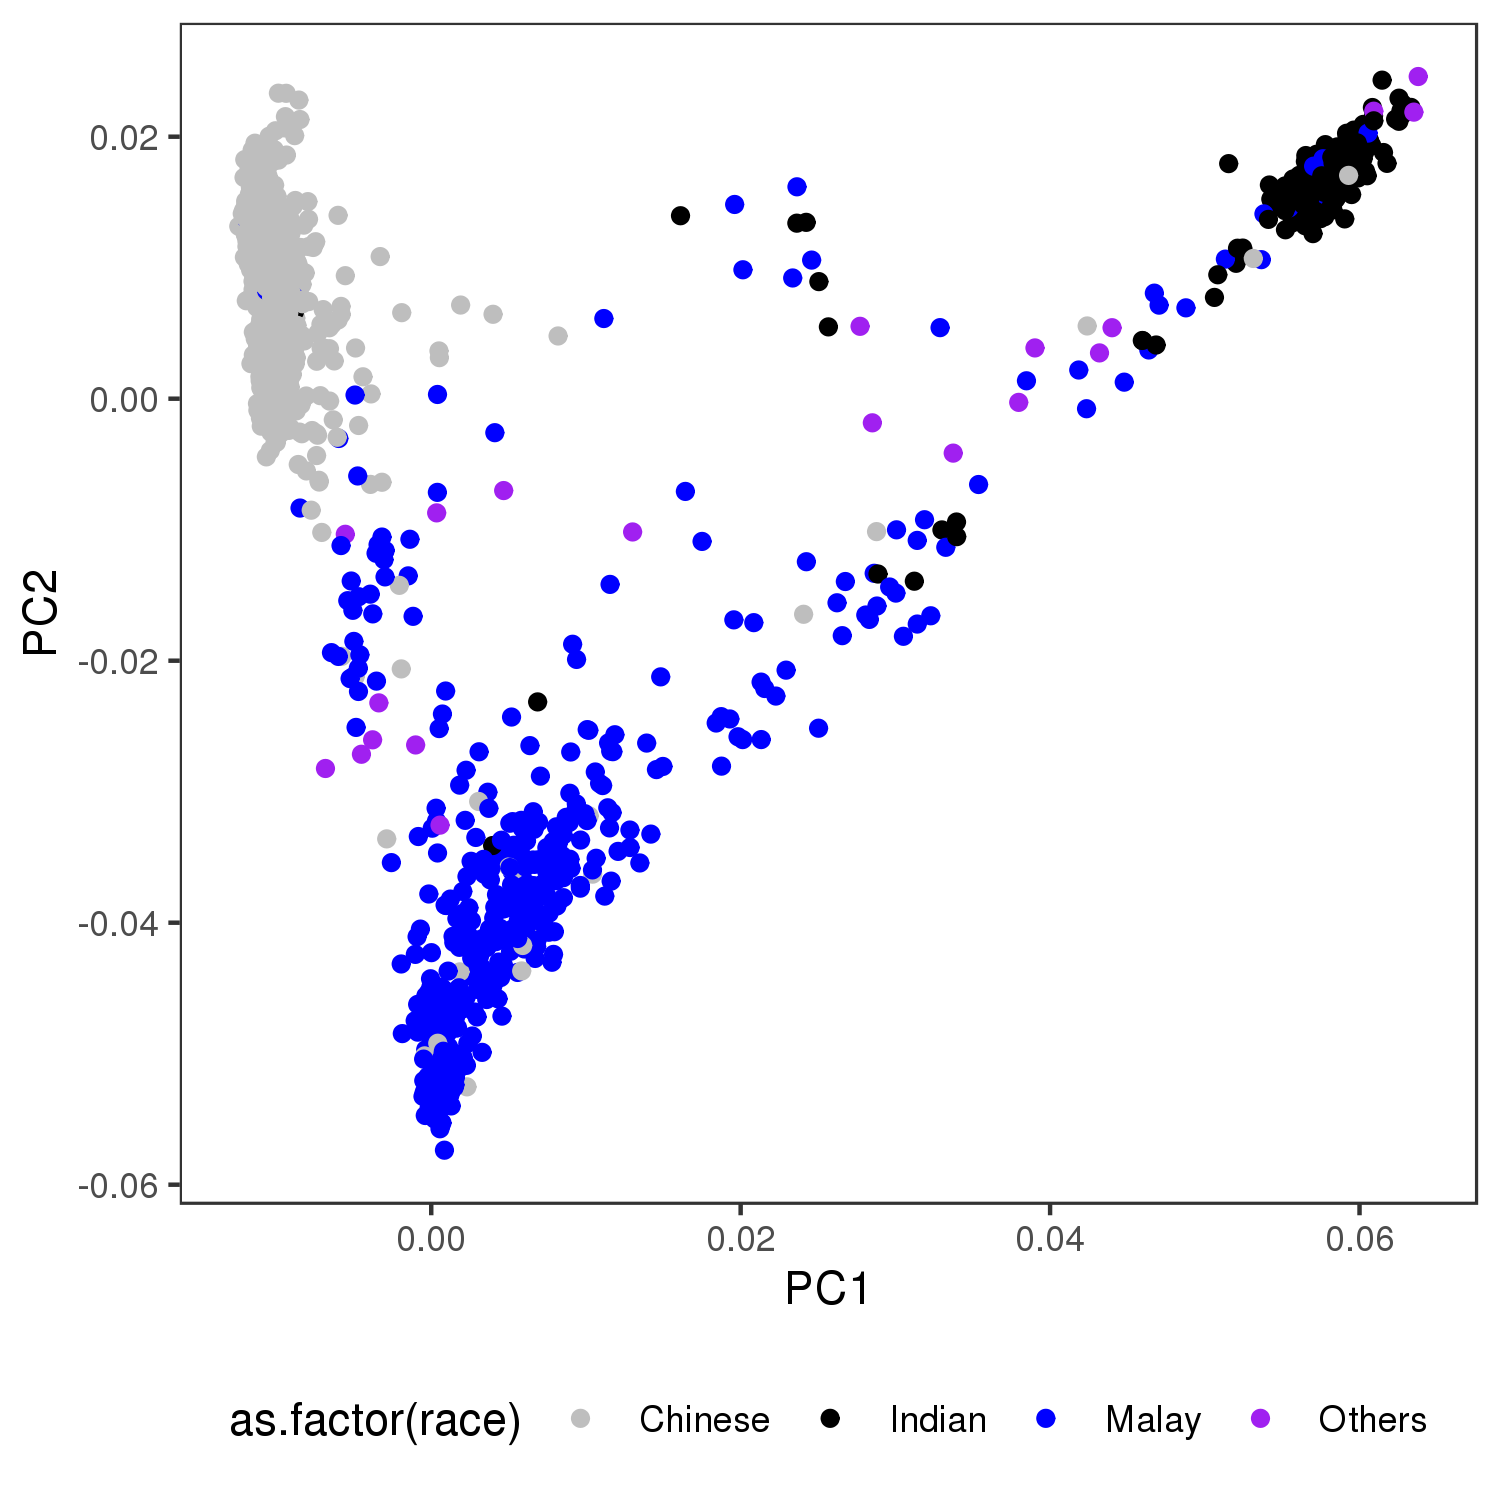
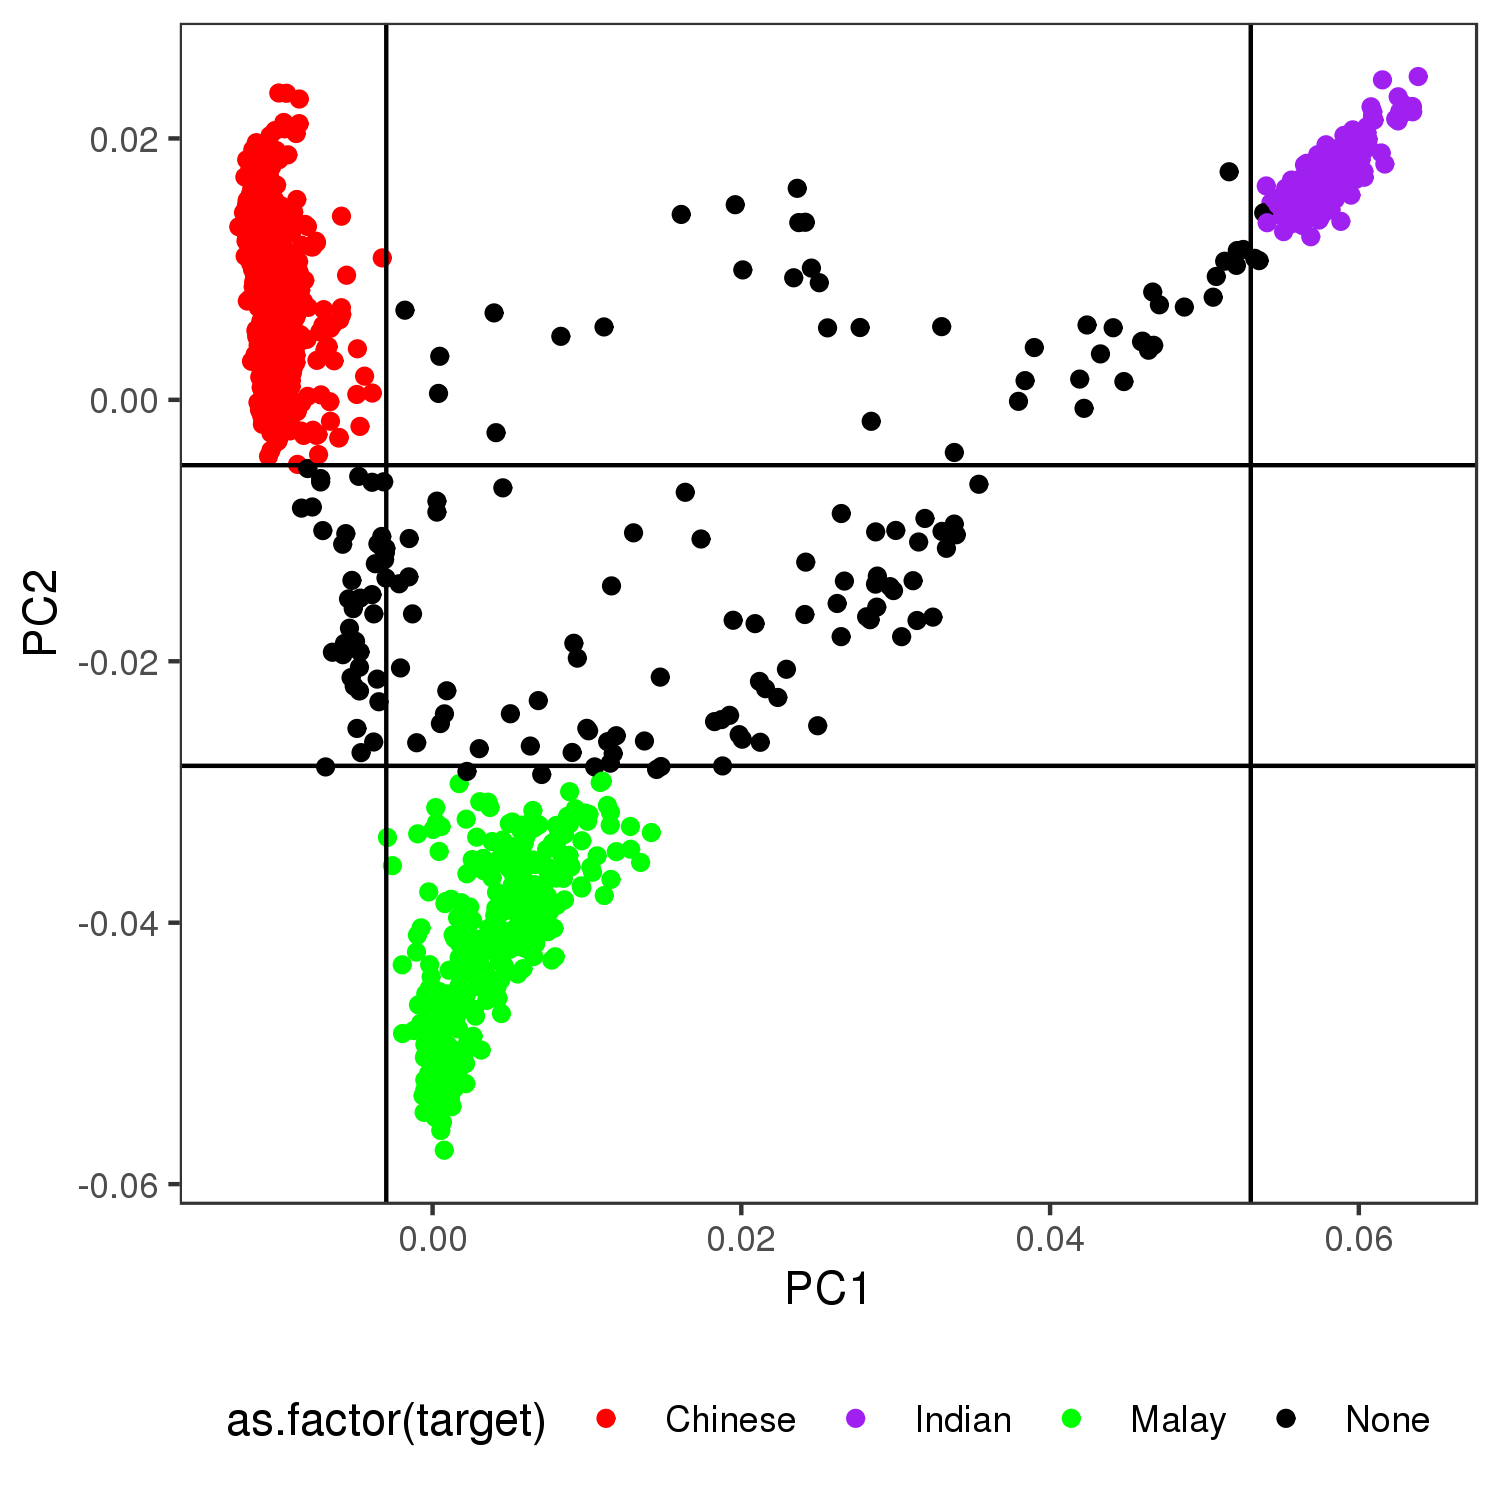
ATTRACT

diff --git a/README.md b/README.md
@@ -2,8 +2,6 @@
 # Documentation for ATTRACT Data Processing  
 ###
 
-<details>  
-<summary> QC procesing of entire datasets </summary>    
 ## Estimate Heterozygosity and remove samples with extreme heterozygosity values  
  
 ```  
@@ -42,7 +40,9 @@ awk '{if($5<0.00005){print $2}}' parse2_QC_filtered_attract_preQC.missing  > par
 ./plink --bfile parse3_QC_filtered_attract_preQC --pca 10 --out parse3_QC_filtered_attract_preQC  
 ```  
 
+OUTPUT:  
 
-  
-</details>  
+<p align="center">
+  <img height="400" src="https://github.com/lwtan90/ATTRACTgenome/blob/master/img/PC12.png">
+</p>  
 
